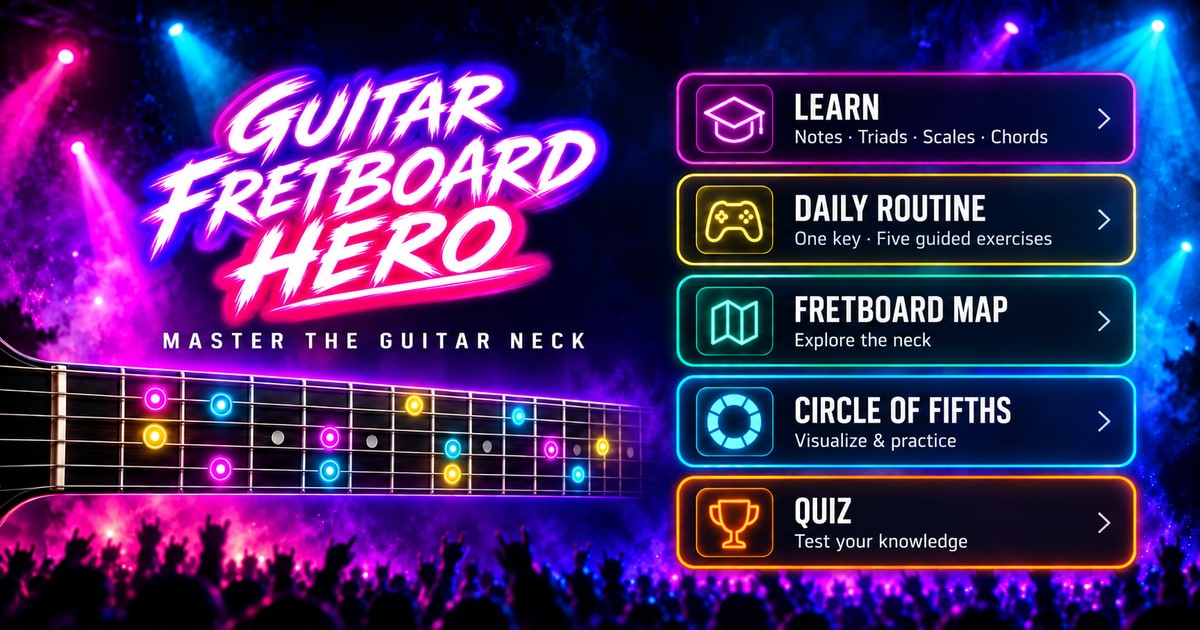
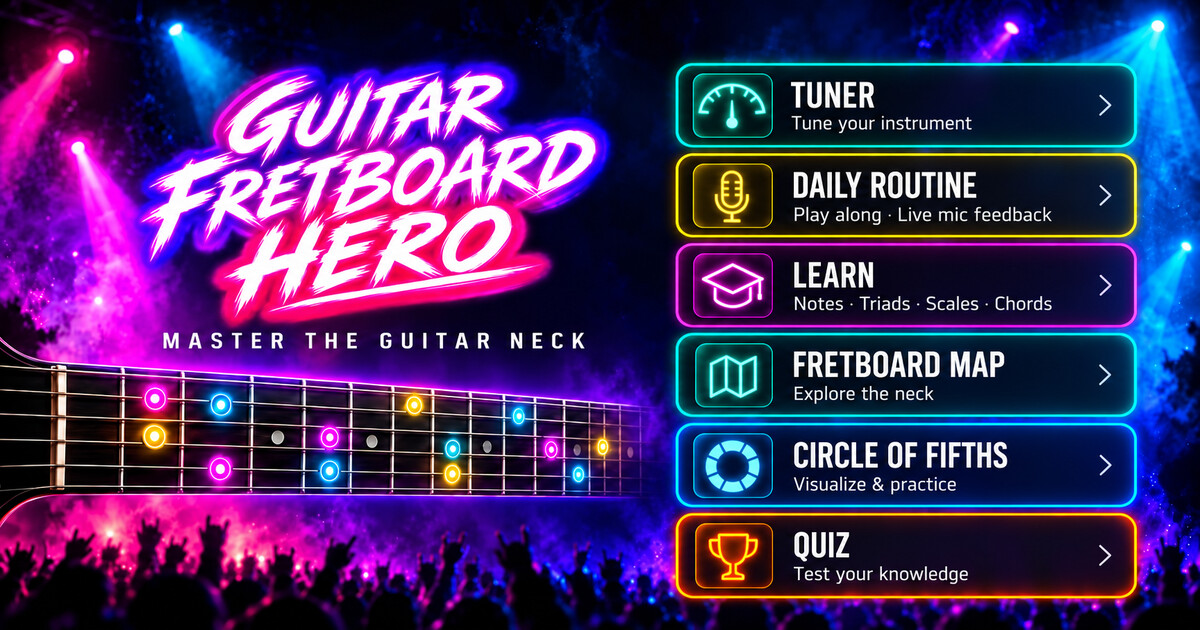
Refresh instrument OG artwork with tuner and live routine feedback

diff --git a/web/products/guitar-fretboard-hero.js b/web/products/guitar-fretboard-hero.js
@@ -8,16 +8,16 @@ window.FRETBOARD_PRODUCTS.guitar={
     description:'Learn the guitar fretboard with interactive note maps, major and minor pentatonic positions, triads, CAGED chord shapes and a 60-second fretboard quiz. Free, mobile-first and no account required.',
     keywords:['guitar fretboard','guitar fretboard notes','learn guitar fretboard','guitar notes','guitar neck notes','fretboard trainer','guitar fretboard trainer','minor pentatonic guitar','major pentatonic guitar','pentatonic positions guitar','guitar triads','CAGED chords','guitar chord shapes','fretboard quiz','guitar music theory'],
     canonical:'https://fretboard-hero.com/',
-    ogTitle:'Guitar Fretboard Hero — Learn the Guitar Fretboard',
-    ogDescription:'Learn every note, visualize pentatonic positions, triads and CAGED chords, then test your fretboard knowledge in a 60-second quiz.',
-    ogImageAlt:'Guitar Fretboard Hero interactive guitar fretboard with Learn, Daily Routine, Fretboard Map, Circle of Fifths and Quiz',
-    twitterTitle:'Guitar Fretboard Hero — Learn the Guitar Fretboard',
-    twitterDescription:'Interactive guitar fretboard notes, pentatonic positions, triads, CAGED chords and a fast fretboard quiz. Free and no account required.',
+    ogTitle:'Guitar Fretboard Hero — Tune, Learn & Play',
+    ogDescription:'Tune your guitar, play Daily Routine with live mic feedback, and explore fretboard notes, scales, triads and chords. Test yourself in the quiz.',
+    ogImageAlt:'Guitar Fretboard Hero neon concert artwork with a six-string guitar neck, Tuner, Daily Routine with live mic feedback, Learn, Fretboard Map, Circle of Fifths and Quiz',
+    twitterTitle:'Guitar Fretboard Hero — Tune, Learn & Play',
+    twitterDescription:'Tune your guitar, play Daily Routine with live mic feedback, and explore fretboard notes, scales, triads and chords. Test yourself in the quiz.',
     structuredDescription:'Free interactive guitar fretboard learning tool with note mapping, major and minor pentatonic positions, triads, CAGED chord shapes and a timed fretboard quiz.',
     featureList:['Interactive guitar fretboard note map','Major and minor pentatonic positions','Triad visualization','CAGED chord shapes','Circle of Fifths and key harmony','60-second fretboard quiz','Mobile and tablet friendly']
   },
   pwa:{manifest:'manifests/guitar.webmanifest',name:'Guitar Fretboard Hero',shortName:'Fretboard Hero',description:'Free interactive guitar fretboard trainer for pentatonic scales, triads, chords, note mapping and quizzes.'},
-  assets:{heroLogoViewport:'0 0 900 550',ogImage:'assets/instruments/guitar/og.jpg?v=10.24.2'},
+  assets:{heroLogoViewport:'0 0 900 550',ogImage:'assets/instruments/guitar/og.jpg?v=10.35.0'},
   quiz:{durationMs:60000,basePoints:100,scoreTable:[100,250,500,800,1200],maxMultiplier:5,maxFret:15,targets:['root','third','fifth']},
   ranks:[
     [10000,'🏆','VIRTUOSO','Total fretboard control at speed.'],[9000,'🎸','GUITAR LEGEND','The neck has nowhere left to hide.'],[8000,'🧙','NECK MASTER','Instant command across the fretboard.'],[7000,'✨','FRET WIZARD','Notes appear before you need to search.'],[6000,'👑','GUITAR HERO','Fast, confident fretboard mastery.'],[5300,'⭐','ROCKSTAR','Fast, accurate and stage-ready.'],[4700,'⚡','SHREDDER','The neck is starting to fear you.'],[4200,'🎛','TONE MASTER','Control, speed and musical awareness.'],[3800,'🌀','STRING BENDER','Strong instincts across the strings.'],[3450,'🔥','FRET MASTER','The fretboard map is locking in.'],[3150,'💀','SOLO MASTER','Strong fretboard instincts.'],[2900,'🤘','RIFF LORD','You command the riffs.'],[2650,'🎤','HEADLINER','Ready for the big stage.'],[2450,'🎪','STAGE PLAYER','Comfortable under pressure.'],[2250,'🎵','LEAD GUITARIST','Solid lead-player territory.'],[2000,'🪓','AXE SLINGER','You know how to handle that axe.'],[1800,'🏄','RHYTHM RIDER','The neck is becoming familiar.'],[1600,'🎸','GIG PLAYER','Good enough to survive the set.'],[1400,'🎶','JAMMER','You can find your way through a jam.'],[1200,'🎼','PLAYER','A solid base is taking shape.'],[1000,'🎧','PRACTICER','The repetitions are paying off.'],[850,'🌱','ROOKIE','The journey has officially begun.'],[700,'🎸','BEGINNER','You found the guitar. Now find the notes.'],[550,'🎵','CHORD CHASER','Always one fret behind the chord.'],[400,'🧭','FRET EXPLORER','Boldly exploring unknown frets.'],[300,'🧠','NOTE HUNTER','The notes are hiding. Keep hunting.'],[200,'🗺','NECK TOURIST','Nice neck. First time here?'],[100,'🙈','FRET GUESSER','Confidence: high. Accuracy: adventurous.'],[50,'😬','NEEDS A TUNER','The guitar might be fine. We should still check.'],[0,'💀','AIR GUITARIST','At least air guitar has no wrong frets.']

diff --git a/web/products/ukulele-fretboard-hero.js b/web/products/ukulele-fretboard-hero.js
@@ -8,15 +8,15 @@ window.FRETBOARD_PRODUCTS.ukulele={
     description:'Learn the ukulele fretboard with an interactive G–C–E–A note map, pentatonic positions, triads, chords, arpeggios and a 60-second fretboard quiz. Designed for standard reentrant high-G tuning.',
     keywords:['ukulele fretboard','ukulele fretboard notes','learn ukulele fretboard','ukulele notes','GCEA ukulele notes','high G ukulele tuning','ukulele fretboard trainer','ukulele pentatonic scale','ukulele scales','ukulele triads','ukulele chords','ukulele arpeggios','ukulele fretboard quiz'],
     canonical:'https://fretboard-hero.com/?instrument=ukulele',
-    ogTitle:'Ukulele Fretboard Hero — Learn the Ukulele Fretboard',
-    ogDescription:'Learn every ukulele note, explore pentatonic positions, triads, chords and arpeggios in G–C–E–A tuning, then test yourself in the quiz.',
-    ogImageAlt:'Ukulele Fretboard Hero interactive G C E A ukulele fretboard with Learn, Daily Routine, Fretboard Map, Circle of Fifths and Quiz',
-    twitterTitle:'Ukulele Fretboard Hero — Learn the Ukulele Fretboard',
-    twitterDescription:'Interactive G–C–E–A ukulele fretboard notes, scales, triads, chords, arpeggios and a fast quiz.',
+    ogTitle:'Ukulele Fretboard Hero — Tune, Learn & Play',
+    ogDescription:'Tune your ukulele, play Daily Routine with live mic feedback, and explore fretboard notes, scales, triads and chords. Test yourself in the quiz.',
+    ogImageAlt:'Ukulele Fretboard Hero neon concert artwork with a four-string ukulele neck, Tuner, Daily Routine with live mic feedback, Learn, Fretboard Map, Circle of Fifths and Quiz',
+    twitterTitle:'Ukulele Fretboard Hero — Tune, Learn & Play',
+    twitterDescription:'Tune your ukulele, play Daily Routine with live mic feedback, and explore fretboard notes, scales, triads and chords. Test yourself in the quiz.',
     structuredDescription:'Free interactive ukulele fretboard learning tool for standard reentrant high-G G–C–E–A tuning with note mapping, pentatonic positions, triads, chords, arpeggios and quizzes.',
     featureList:['G–C–E–A ukulele fretboard note map','Reentrant high-G tuning','Pentatonic positions','Ukulele triads and chords','Ukulele arpeggios','Circle of Fifths and key harmony','60-second fretboard quiz']
   },
   pwa:{manifest:'manifests/ukulele.webmanifest',name:'Ukulele Fretboard Hero',shortName:'Ukulele Hero',description:'Interactive ukulele fretboard trainer for scales, triads, chords, arpeggios, note mapping and quizzes.'},
-  assets:{heroLogoViewport:'1800 0 900 550',ogImage:'assets/instruments/ukulele/og.jpg?v=10.24.2'},
+  assets:{heroLogoViewport:'1800 0 900 550',ogImage:'assets/instruments/ukulele/og.jpg?v=10.35.0'},
   quiz:{durationMs:60000,basePoints:100,scoreTable:[100,250,500,800,1200],maxMultiplier:5,maxFret:15,targets:['root','third','fifth']},ranks:[[10000,'🏆','UKULELE VIRTUOSO',''],[9000,'🎸','UKULELE LEGEND',''],[8000,'🧙','NECK MASTER',''],[7000,'✨','FRET WIZARD',''],[6000,'👑','UKULELE HERO',''],[5300,'⭐','ISLAND ROCKSTAR',''],[4700,'⚡','FAST STRUMMER',''],[4200,'🎛','TONE MASTER',''],[3800,'🌀','STRING BENDER',''],[3450,'🔥','FRET MASTER',''],[3150,'💀','SOLO MASTER',''],[2900,'🤘','RIFF LORD',''],[2650,'🎤','HEADLINER',''],[2450,'🎪','STAGE PLAYER',''],[2250,'🎵','LEAD PLAYER',''],[2000,'🪓','UKE SLINGER',''],[1800,'🏄','RHYTHM RIDER',''],[1600,'🎸','GIG PLAYER',''],[1400,'🎶','JAMMER',''],[1200,'🎼','UKULELE PLAYER',''],[1000,'🎧','PRACTICER',''],[850,'🌱','ROOKIE',''],[700,'🎸','BEGINNER',''],[550,'🎵','CHORD CHASER',''],[400,'🧭','FRET EXPLORER',''],[300,'🧠','NOTE HUNTER',''],[200,'🗺','NECK TOURIST',''],[100,'🙈','FRET GUESSER',''],[50,'😬','NEEDS A TUNER',''],[0,'💀','AIR UKULELE','']]
 };

diff --git a/web/products/bass-fretboard-hero.js b/web/products/bass-fretboard-hero.js
@@ -8,15 +8,15 @@ window.FRETBOARD_PRODUCTS.bass={
     description:'Learn the bass fretboard with interactive note maps, major and minor pentatonic positions, triads, arpeggios and a 60-second fretboard quiz. Built for 4-string bass in standard E–A–D–G tuning.',
     keywords:['bass fretboard','bass fretboard notes','learn bass fretboard','bass guitar notes','4 string bass notes','bass neck notes','bass fretboard trainer','bass pentatonic scale','minor pentatonic bass','major pentatonic bass','bass triads','bass arpeggios','bass scales','bass fretboard quiz','EADG bass'],
     canonical:'https://fretboard-hero.com/?instrument=bass-4',
-    ogTitle:'Bass Fretboard Hero — Learn the Bass Fretboard',
-    ogDescription:'Learn every bass note, visualize pentatonic positions, triads and arpeggios, then test your fretboard knowledge in a 60-second quiz.',
-    ogImageAlt:'Bass Fretboard Hero interactive 4-string bass fretboard with Learn, Daily Routine, Fretboard Map, Circle of Fifths and Quiz',
-    twitterTitle:'Bass Fretboard Hero — Learn the Bass Fretboard',
-    twitterDescription:'Interactive bass fretboard notes, pentatonic positions, triads, arpeggios and a fast quiz for standard 4-string bass.',
+    ogTitle:'Bass Fretboard Hero — Tune, Learn & Play',
+    ogDescription:'Tune your bass, play Daily Routine with live mic feedback, and explore fretboard notes, scales, triads and arpeggios. Test yourself in the quiz.',
+    ogImageAlt:'Bass Fretboard Hero neon concert artwork with a four-string bass neck, Tuner, Daily Routine with live mic feedback, Learn, Fretboard Map, Circle of Fifths and Quiz',
+    twitterTitle:'Bass Fretboard Hero — Tune, Learn & Play',
+    twitterDescription:'Tune your bass, play Daily Routine with live mic feedback, and explore fretboard notes, scales, triads and arpeggios. Test yourself in the quiz.',
     structuredDescription:'Free interactive 4-string bass fretboard learning tool for standard E–A–D–G tuning with note mapping, pentatonic positions, triads, arpeggios and a timed quiz.',
     featureList:['4-string bass fretboard note map','Standard E–A–D–G tuning','Major and minor pentatonic positions','Bass triads','Bass arpeggios','Circle of Fifths and key harmony','60-second fretboard quiz']
   },
   pwa:{manifest:'manifests/bass.webmanifest',name:'Bass Fretboard Hero',shortName:'Bass Hero',description:'Interactive bass fretboard trainer for pentatonics, triads, arpeggios, note mapping and quizzes.'},
-  assets:{heroLogoViewport:'900 0 900 550',ogImage:'assets/instruments/bass/og.jpg?v=10.24.2'},
+  assets:{heroLogoViewport:'900 0 900 550',ogImage:'assets/instruments/bass/og.jpg?v=10.35.0'},
   quiz:{durationMs:60000,basePoints:100,scoreTable:[100,250,500,800,1200],maxMultiplier:5,maxFret:15,targets:['root','third','fifth']},ranks:[[10000,'🏆','BASS VIRTUOSO',''],[9000,'🎸','BASS LEGEND',''],[8000,'🧙','NECK MASTER',''],[7000,'✨','FRET WIZARD',''],[6000,'👑','BASS HERO',''],[5300,'⭐','GROOVE MASTER',''],[4700,'⚡','LOW-END SHREDDER',''],[4200,'🎛','TONE MASTER',''],[3800,'🌀','STRING BENDER',''],[3450,'🔥','FRET MASTER',''],[3150,'💀','BASS SOLO MASTER',''],[2900,'🤘','RIFF LORD',''],[2650,'🎤','HEADLINER',''],[2450,'🎪','STAGE PLAYER',''],[2250,'🎵','LEAD BASSIST',''],[2000,'🪓','LOW-END SLINGER',''],[1800,'🏄','GROOVE RIDER',''],[1600,'🎸','GIG PLAYER',''],[1400,'🎶','JAMMER',''],[1200,'🎼','BASS PLAYER',''],[1000,'🎧','PRACTICER',''],[850,'🌱','ROOKIE',''],[700,'🎸','BEGINNER',''],[550,'🎵','GROOVE CHASER',''],[400,'🧭','FRET EXPLORER',''],[300,'🧠','NOTE HUNTER',''],[200,'🗺','NECK TOURIST',''],[100,'🙈','FRET GUESSER',''],[50,'😬','NEEDS A TUNER',''],[0,'💀','AIR BASSIST','']]
 };

diff --git a/web/index.html b/web/index.html
@@ -16,21 +16,22 @@
   <meta name="author" content="Jean-François Seignemorte">
   <meta name="creator" content="Jean-François Seignemorte">
   <link rel="canonical" href="https://fretboard-hero.com/">
-  <meta property="og:title" content="Fretboard Hero — Master the Neck">
-  <meta property="og:description" content="See it. Learn it. Play it. Explore the fretboard, then prove it in the quiz.">
+  <meta property="og:title" content="Guitar Fretboard Hero — Tune, Learn &amp; Play">
+  <meta property="og:description" content="Tune your guitar, play Daily Routine with live mic feedback, and explore fretboard notes, scales, triads and chords. Test yourself in the quiz.">
   <meta property="og:type" content="website">
   <meta property="og:site_name" content="Fretboard Hero">
   <meta property="og:locale" content="en_US">
   <meta property="og:url" content="https://fretboard-hero.com/">
-  <meta property="og:image" content="https://fretboard-hero.com/assets/instruments/guitar/og.jpg?v=10.24.2">
+  <meta property="og:image" content="https://fretboard-hero.com/assets/instruments/guitar/og.jpg?v=10.35.0">
   <meta property="og:image:type" content="image/jpeg">
   <meta property="og:image:width" content="1200">
   <meta property="og:image:height" content="630">
-  <meta property="og:image:alt" content="Fretboard Hero — neon fretboard trainer with Learn, Daily Routine, Fretboard Map, Circle of Fifths and Quiz">
+  <meta property="og:image:alt" content="Guitar Fretboard Hero neon concert artwork with a six-string guitar neck, Tuner, Daily Routine with live mic feedback, Learn, Fretboard Map, Circle of Fifths and Quiz">
   <meta name="twitter:card" content="summary_large_image">
-  <meta name="twitter:title" content="Fretboard Hero — Master the Neck">
-  <meta name="twitter:description" content="Interactive fretboard training, note map and quiz. Free. No account. Just play.">
-  <meta name="twitter:image" content="https://fretboard-hero.com/assets/instruments/guitar/og.jpg?v=10.24.2">
+  <meta name="twitter:title" content="Guitar Fretboard Hero — Tune, Learn &amp; Play">
+  <meta name="twitter:description" content="Tune your guitar, play Daily Routine with live mic feedback, and explore fretboard notes, scales, triads and chords. Test yourself in the quiz.">
+  <meta name="twitter:image" content="https://fretboard-hero.com/assets/instruments/guitar/og.jpg?v=10.35.0">
+  <meta name="twitter:image:alt" content="Guitar Fretboard Hero neon concert artwork with a six-string guitar neck, Tuner, Daily Routine with live mic feedback, Learn, Fretboard Map, Circle of Fifths and Quiz">
   <link rel="icon" sizes="16x16 32x32 48x48" href="./assets/instruments/guitar/favicon.ico">
   <link rel="shortcut icon" href="./assets/instruments/guitar/favicon.ico">
   <link rel="icon" type="image/png" sizes="16x16" href="./assets/instruments/guitar/favicon-16.png">
@@ -267,7 +268,7 @@
     </div>
   </div>
 
-  <script src="./bootstrap.js?v=10.34.3" defer></script>
+  <script src="./bootstrap.js?v=10.35.0" defer></script>
   <script>if('serviceWorker' in navigator){window.addEventListener('load',()=>navigator.serviceWorker.register('./sw.js').catch(()=>{}));}</script>
 
 </body>

diff --git a/web/bootstrap.js b/web/bootstrap.js
@@ -8,11 +8,11 @@
     artwork.setAttribute('href','./assets/home/product-wordmarks.webp');
   });
   const CATALOG={
-    'guitar':{instrumentKey:'guitar',instrument:'./instruments/guitar.js?v=10.26.4',productKey:'guitar',product:'./products/guitar-fretboard-hero.js?v=10.26.4'},
-    'bass-4':{instrumentKey:'bass4',instrument:'./instruments/bass-4.js?v=10.26.4',productKey:'bass',product:'./products/bass-fretboard-hero.js?v=10.26.4'},
-    'ukulele':{instrumentKey:'ukulele',instrument:'./instruments/ukulele.js?v=10.26.4',productKey:'ukulele',product:'./products/ukulele-fretboard-hero.js?v=10.26.4'},
+    'guitar':{instrumentKey:'guitar',instrument:'./instruments/guitar.js?v=10.26.4',productKey:'guitar',product:'./products/guitar-fretboard-hero.js?v=10.35.0'},
+    'bass-4':{instrumentKey:'bass4',instrument:'./instruments/bass-4.js?v=10.26.4',productKey:'bass',product:'./products/bass-fretboard-hero.js?v=10.35.0'},
+    'ukulele':{instrumentKey:'ukulele',instrument:'./instruments/ukulele.js?v=10.26.4',productKey:'ukulele',product:'./products/ukulele-fretboard-hero.js?v=10.35.0'},
   };
-  const CORE=['music-theory','circle-of-fifths','circle-renderer','microphone','pitch-detector','chord-detector','routine-guide','routine-exercises','routine-renderer','routine-session','tuning','fretboard-engine','fretboard-layout','fretboard-appearance','fretboard-map','pentatonic-renderer','triad-engine','arpeggio-engine','chord-engine','quiz-engine','controls','mode-registry','product-shell'].map(n=>`./core/${n}.js?v=10.34.3`);
+  const CORE=['music-theory','circle-of-fifths','circle-renderer','microphone','pitch-detector','chord-detector','routine-guide','routine-exercises','routine-renderer','routine-session','tuning','fretboard-engine','fretboard-layout','fretboard-appearance','fretboard-map','pentatonic-renderer','triad-engine','arpeggio-engine','chord-engine','quiz-engine','controls','mode-registry','product-shell'].map(n=>`./core/${n}.js?v=10.35.0`);
   const MODES=['pentatonic','triads','chords','arpeggios'].map(n=>`./modes/${n}.js?v=10.26.4`);
   const load=src=>new Promise((resolve,reject)=>{const s=document.createElement('script');s.async=false;s.src=src;s.onload=resolve;s.onerror=()=>reject(new Error(`Unable to load ${src}`));document.head.appendChild(s);});
   const fail=err=>{document.body.setAttribute('aria-busy','false');console.error(err);document.body.innerHTML=`<main style="min-height:100vh;display:grid;place-items:center;background:#05080b;color:#f8fbff;font-family:system-ui;padding:24px"><div><h1 style="color:#ff3ec9">CONFIGURATION ERROR</h1><p>${String(err.message||err)}</p><p>Check <code>site.config.json</code> and README.md.</p></div></main>`;};

diff --git a/worker.js b/worker.js
@@ -1,9 +1,9 @@
 import { handlePlayBilling } from './server/play-billing.mjs';
 // Social crawlers need instrument metadata in the initial HTML, before JavaScript.
 const products = {
-  guitar: { name: 'Guitar', key: 'guitar' },
-  'bass-4': { name: 'Bass', key: 'bass' },
-  ukulele: { name: 'Ukulele', key: 'ukulele' }
+  guitar: { name: 'Guitar', key: 'guitar', neck: 'six-string guitar', shapes: 'chords' },
+  'bass-4': { name: 'Bass', key: 'bass', neck: 'four-string bass', shapes: 'arpeggios' },
+  ukulele: { name: 'Ukulele', key: 'ukulele', neck: 'four-string ukulele', shapes: 'chords' }
 };
 export default {
   async fetch(request, env) {
@@ -14,9 +14,10 @@ export default {
     const requested = url.searchParams.get('instrument');
     const instrument = Object.hasOwn(products, requested) ? products[requested] : products.guitar;
     const canonical = `https://fretboard-hero.com/${instrument.key === 'guitar' ? '' : `?instrument=${instrument.key === 'bass' ? 'bass-4' : instrument.key}`}`;
-    const title = `${instrument.name} Fretboard Hero — Master the Neck`;
-    const description = `Learn the ${instrument.name.toLowerCase()} fretboard with Learn, Daily Routine, Fretboard Map, Circle of Fifths and Quiz.`;
-    const image = `https://fretboard-hero.com/assets/instruments/${instrument.key}/og.jpg?v=10.24.2`;
+    const title = `${instrument.name} Fretboard Hero — Tune, Learn & Play`;
+    const description = `Tune your ${instrument.name.toLowerCase()}, play Daily Routine with live mic feedback, and explore fretboard notes, scales, triads and ${instrument.shapes}. Test yourself in the quiz.`;
+    const image = `https://fretboard-hero.com/assets/instruments/${instrument.key}/og.jpg?v=10.35.0`;
+    const imageAlt = `${instrument.name} Fretboard Hero neon concert artwork with a ${instrument.neck} neck, Tuner, Daily Routine with live mic feedback, Learn, Fretboard Map, Circle of Fifths and Quiz`;
     const attr = (name, value) => ({ element(el) { el.setAttribute(name, value); } });
     return new HTMLRewriter()
       .on('title', { element(el) { el.setInnerContent(title); } })
@@ -25,7 +26,7 @@ export default {
       .on('meta[property="og:title"], meta[name="twitter:title"]', attr('content', title))
       .on('meta[name="description"], meta[property="og:description"], meta[name="twitter:description"]', attr('content', description))
       .on('meta[property="og:image"], meta[name="twitter:image"]', attr('content', image))
-      .on('meta[property="og:image:alt"]', attr('content', description))
+      .on('meta[property="og:image:alt"], meta[name="twitter:image:alt"]', attr('content', imageAlt))
       .transform(response);
   }
 };

diff --git a/web/core/product-shell.js b/web/core/product-shell.js
@@ -27,7 +27,7 @@
     const home=product.home||{};
     const name=branding.name||product.name||'Fretboard Hero';
     const url=seo.canonical||product.url||location.href;
-    const ogImage=new URL(assets.ogImage||'assets/instruments/guitar/og.jpg?v=10.24.2','https://fretboard-hero.com/').href;
+    const ogImage=new URL(assets.ogImage||'assets/instruments/guitar/og.jpg?v=10.35.0','https://fretboard-hero.com/').href;
 
     document.title=seo.title||name;
     setMeta('meta[name="application-name"]',name);
@@ -44,6 +44,7 @@
     setMeta('meta[name="twitter:title"]',seo.twitterTitle||seo.ogTitle||seo.title||name);
     setMeta('meta[name="twitter:description"]',seo.twitterDescription||seo.ogDescription||seo.description||'Interactive fretboard trainer.');
     setMeta('meta[name="twitter:image"]',ogImage);
+    setMeta('meta[name="twitter:image:alt"]',seo.ogImageAlt||`${name} fretboard trainer`);
 
     const structured=q('#productStructuredData');
     if(structured){

diff --git a/web/assets/instruments/og-prompts.md b/web/assets/instruments/og-prompts.md
@@ -1,0 +1,59 @@
+# OG artwork prompts — 10.35.0
+
+Generated with the built-in imagegen tool. The previous approved JPEGs were the
+edit references. The refreshed guitar was then the layout reference for bass and
+ukulele, alongside each instrument's previous JPEG. No CLI image generation was
+used. Final exports are 1200×630 JPEG, quality 90, 4:4:4, with metadata stripped.
+
+## Guitar
+
+Edit the attached existing Guitar Fretboard Hero Open Graph image. Create an updated share card in exactly the same visual spirit and matching original 1200:630 wide landscape composition. This is a faithful brand asset update, not a redesign.
+Preserve the left half: concert crowd silhouette, electric blue and hot magenta stage lights, black/navy backdrop, the original expressive white brush-lettered neon logo "GUITAR FRETBOARD HERO", the exact tagline "MASTER THE GUITAR NECK", and the realistic horizontal SIX-string electric guitar fretboard with bright colored note markers. Preserve the composition, colors, scale, and logo letterforms as closely as possible.
+Update only the right menu stack to SIX uniformly sized, neatly aligned neon-outlined dark cards. Keep all text large, sharp, readable and correctly spelled. All six must fit fully inside the canvas with comfortable margins; top about 35 and bottom about 595. Cards can be slightly shorter than original. Every card has a simple glowing line icon at left and a small chevron on the right.
+Exact top-to-bottom card content:
+1. green/cyan card, tuning meter icon with central needle. Title "TUNER". Subtitle "Tune your instrument".
+2. gold/yellow card, microphone icon. Title "DAILY ROUTINE". Subtitle "Play along · Live mic feedback".
+3. magenta card, graduation cap icon. Title "LEARN". Subtitle "Notes · Triads · Scales · Chords".
+4. turquoise card, folded map icon. Title "FRETBOARD MAP". Subtitle "Explore the neck".
+5. electric blue card, circular wheel icon. Title "CIRCLE OF FIFTHS". Subtitle "Visualize & practice".
+6. orange card, trophy icon. Title "QUIZ". Subtitle "Test your knowledge".
+Do not add any other text, badges, watermarks, or logos. Keep the fretboard recognizable and anatomically six strings. Maintain the original professional neon game/concert aesthetic, high contrast, and clear text. Output one complete finished 1200 by 630 landscape OG asset, no mockup device or border.
+
+## Bass
+
+Create the BASS instrument variant of the FIRST reference updated neon OG image. This is a faithful edit, not a redesign. Output one finished wide landscape 1200:630 aspect ratio social card.
+Use the FIRST reference as the exact master for layout, stage concert background, crowd silhouettes, blue/magenta neon palette, text sizes, all six right-hand cards, card order, icons, positions, borders and spacing. Keep the right six-card layout identical.
+The SECOND reference is the old BASS asset: use it only for the instrument-specific logo wording and neck appearance. Do not use its old five-card menu.
+Make ONLY these instrument changes to the FIRST image:
+- Replace GUITAR in the left brush-lettered logo with "BASS", retaining the exact branded brush neon style. Full three-line logo "BASS FRETBOARD HERO".
+- Tagline exactly "MASTER THE BASS NECK".
+- Replace the six-string electric guitar neck with an electric bass neck with EXACTLY FOUR thicker strings, visually matching the second reference bass image. Keep it horizontal in the same lower-left zone with colored glowing fretboard note markers.
+- LEARN card subtitle exactly "Notes · Triads · Scales · Arpeggios".
+Exact final SIX cards top to bottom, retaining the first reference design:
+TUNER / Tune your instrument
+DAILY ROUTINE / Play along · Live mic feedback
+LEARN / Notes · Triads · Scales · Arpeggios
+FRETBOARD MAP / Explore the neck
+CIRCLE OF FIFTHS / Visualize & practice
+QUIZ / Test your knowledge
+All text must be sharp, correctly spelled and fully readable, no additional badges or text. Preserve safe margins and the same composition.
+
+## Ukulele
+
+Create the UKULELE instrument variant of the FIRST reference updated neon OG image. This is a faithful edit, not a redesign. Output one finished wide landscape 1200:630 aspect ratio social card.
+Use the FIRST reference as the exact master for layout, stage concert background, crowd silhouettes, blue/magenta neon palette, text sizes, all six right-hand cards, card order, icons, positions, borders and spacing. Keep the right six-card layout identical.
+The SECOND reference is the old UKULELE asset: use it only for the instrument-specific logo wording and neck appearance. Do not use its old five-card menu.
+Make ONLY these instrument changes to the FIRST image:
+- Replace GUITAR in the left brush-lettered logo with "UKULELE", retaining the exact branded brush neon style. Full three-line logo "UKULELE FRETBOARD HERO".
+- Tagline exactly "MASTER THE UKULELE NECK".
+- Replace the six-string electric guitar neck with a warm brown wooden ukulele neck with EXACTLY FOUR nylon strings and a small portion of the curved wooden ukulele body visible on the left edge, visually matching the second reference ukulele image. Keep it horizontal in the same lower-left zone with colored glowing fretboard note markers.
+- LEARN card subtitle exactly "Notes · Triads · Scales · Chords".
+Exact final SIX cards top to bottom, retaining the first reference design:
+TUNER / Tune your instrument
+DAILY ROUTINE / Play along · Live mic feedback
+LEARN / Notes · Triads · Scales · Chords
+FRETBOARD MAP / Explore the neck
+CIRCLE OF FIFTHS / Visualize & practice
+QUIZ / Test your knowledge
+All text must be sharp, correctly spelled and fully readable, no additional badges or text. Preserve safe margins and the same composition.
+

diff --git a/web/README.md b/web/README.md
@@ -267,9 +267,14 @@ An optional instrument argument also refreshes checked-in native icons.
 Android builds use each instrument's 1024 px source; `sync-web.ps1` copies the
 selected source to the universal iOS AppIcon and Capacitor resource.
 
-The approved guitar OG is reused; bass/ukulele variants were produced with the
-built-in image generator, preserving the five menus, concert setting and neon
-composition while changing the instrument name, tagline and neck to four strings.
+The 10.35.0 OG refresh uses the built-in image generator to preserve the approved
+concert setting, neon palette and instrument branding across all three images.
+Six cards now lead with Tuner and Daily Routine with live mic feedback, followed
+by Learn, Fretboard Map, Circle of Fifths and Quiz. Bass retains its four-string
+neck and uses Arpeggios in Learn; ukulele retains its wooden four-string neck.
+Prompts and export details live in `assets/instruments/og-prompts.md` and the
+adjacent README. OG/Twitter descriptions, image alt text and versioned image URLs
+are updated in the static HTML, worker and client product profiles.
 
 The loader crossfades the three picks with a small rotation and neon halo. It is
 hidden by the existing bootstrap completion signal, without a minimum delay.
@@ -286,6 +291,5 @@ The former Practice section is now Learn throughout its screen IDs, navigation,
 JavaScript helpers and CSS selectors. `assets/home/learn.svg` is the shared pink
 neon graduation cap. The locked-mode dialog copies this icon and the Learn label
 from the home menu through `FretboardAccess.mount`; no duplicate menu list exists.
-OG bitmap artwork is intentionally deferred to a separate update. The generic
-practice wording inside Play and Circle of Fifths is independent of the renamed
-section.
+The current OG bitmap artwork also uses Learn. The generic practice wording
+inside Play and Circle of Fifths is independent of the renamed section.

diff --git a/web/assets/instruments/README.md b/web/assets/instruments/README.md
@@ -2,8 +2,15 @@ Approved icon artwork: user-provided three-pick sheet, exported without text or
 floor reflections. `icon-source.png` preserves each approved tile. All web and
 native sizes derive from it; maskable images use a 64% square safe area.
 
-OG artwork: approved guitar composition plus generated bass/ukulele variants.
-Generation prompts: keep the concert background, neon palette, composition and
-all five menu cards unchanged; replace GUITAR with BASS / UKULELE, update MASTER
-THE [INSTRUMENT] NECK, and replace the guitar neck with the matching four-string
-instrument. Export to 1200×630 JPEG.
+OG artwork (10.35.0): refreshed guitar, bass and ukulele compositions keep the
+approved concert background, neon palette, brush wordmarks and instrument necks.
+Six cards now lead with Tuner, then Daily Routine with live mic feedback, Learn,
+Fretboard Map, Circle of Fifths and Quiz. Bass uses Arpeggios in the Learn card.
+The built-in image generator produced all three edits; the guitar update served
+as the layout reference for the two four-string variants. Exact prompts are in
+`og-prompts.md`.
+
+Exports: 1200×630 JPEG, quality 90, 4:4:4, stripped metadata. The OG/Twitter image
+URLs use `?v=10.35.0` in the initial HTML, worker and client product profiles so
+new crawls request the updated artwork. Platforms may still cache page previews
+until they crawl the shared URL again.
